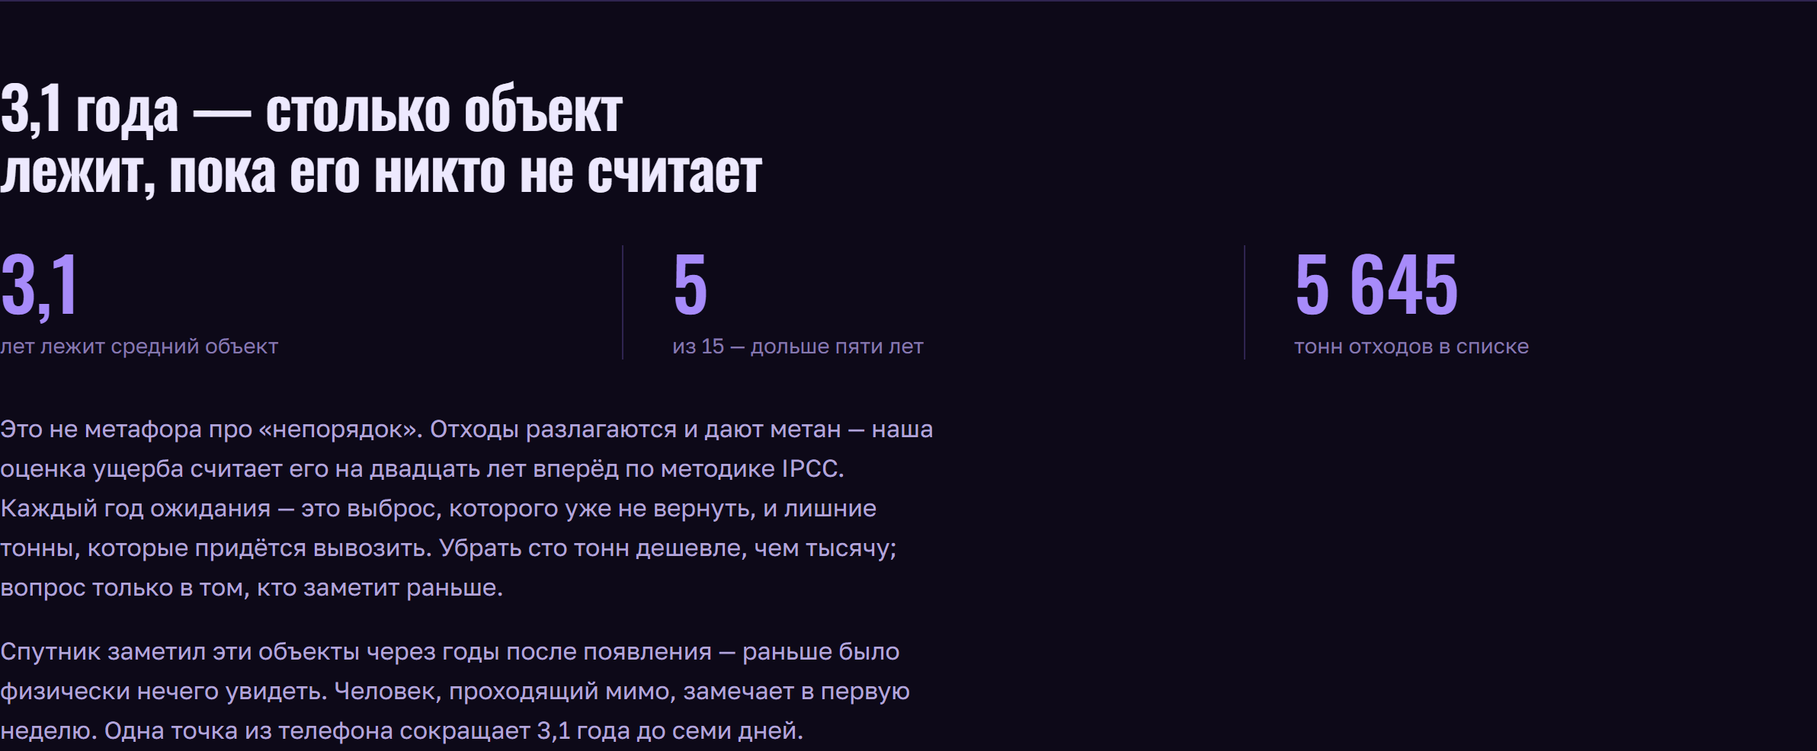
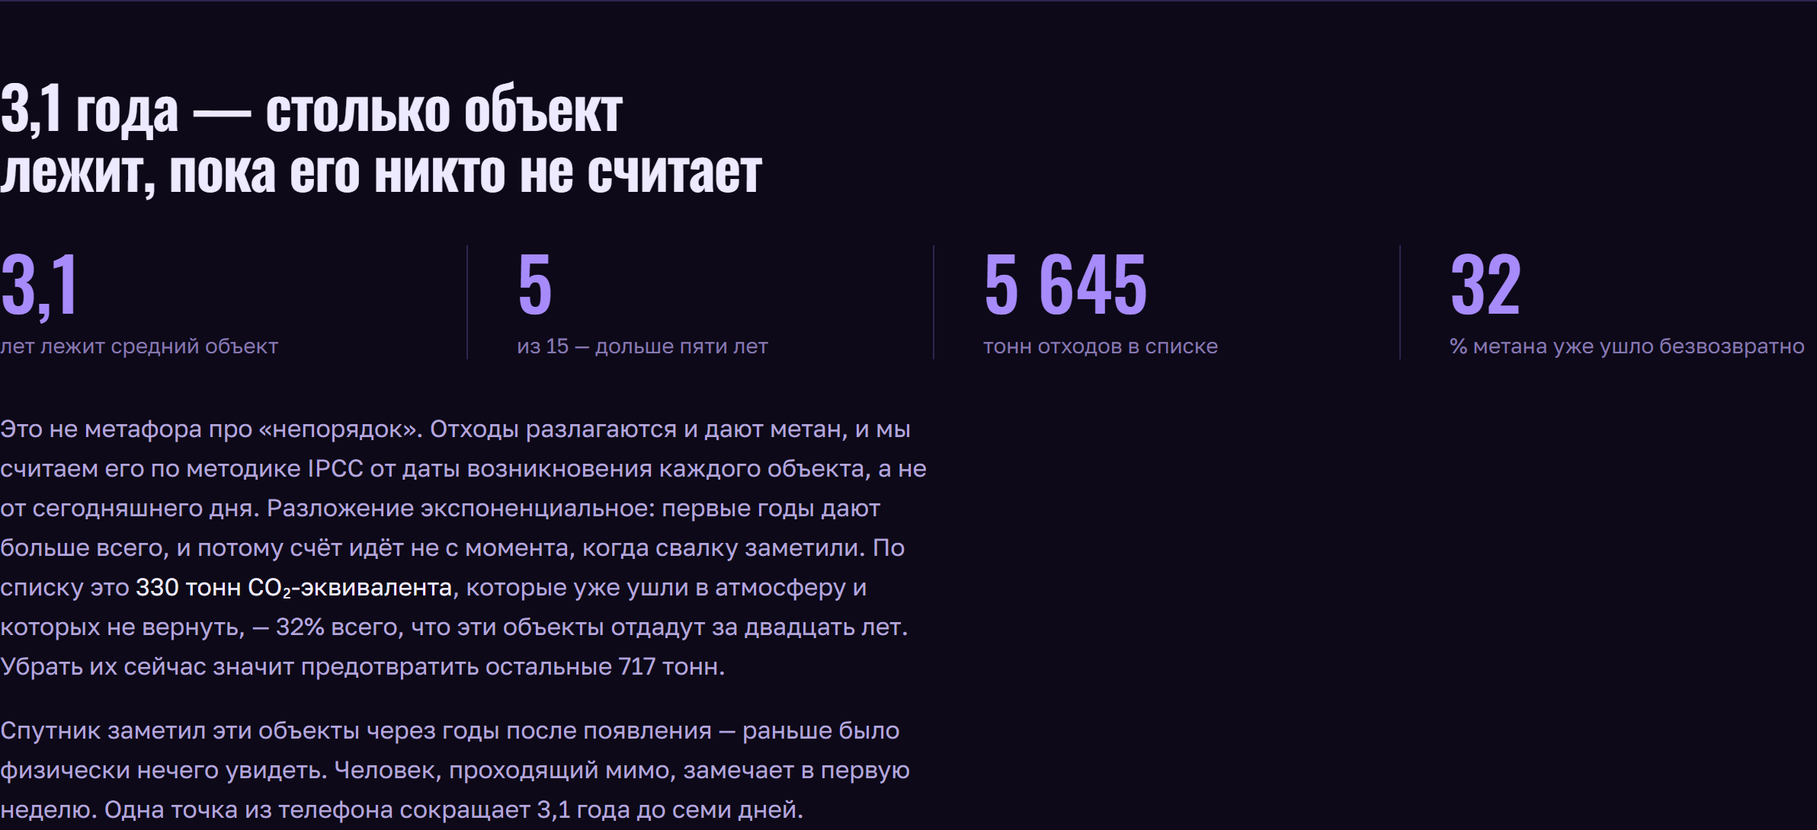
Возраст объекта не входил в расчёт метана, хотя весь рассказ на нём держится
Разложение по методике IPCC FOD идёт от момента захоронения. Возраст в
расчёт не передавался, и свалка 2019 года получала ту же оценку выброса,
что свалка 2024-го. При этом страница для жителей утверждала: «каждый год
ожидания — это выброс, которого уже не вернуть». Утверждение было верным
по физике и никак не посчитанным.

Теперь оценка возвращает три величины: полный горизонт, уже ушедшее и
предотвратимое. По опубликованному списку:

    всего за 20 лет      1 047 т CO₂-экв
    уже выброшено          330 т  (32%)
    ещё можно предотвратить 717 т

Разложение экспоненциальное, и отсюда следует вывод, ради которого всё и
считалось: свалка шести лет уже отдала 44% того, что могла. «Убирать
поздно» — не фигура речи.

Число вынесено на страницу для жителей, рядом с утверждением, которое оно
подкрепляет. Сетка плиток перестроена под четвёртую.

Пять проверок на модель, и две из них поймали мои же ошибки в тестах, а не
в коде: перцентили не складываются (медиана суммы не равна сумме медиан), и
сравнивать надо равные отрезки времени, иначе семь лет «побеждают» три при
любом замедлении.

672 проверки, узкие экраны чистые.

diff --git a/web-next/src/components/HowLong.tsx b/web-next/src/components/HowLong.tsx
@@ -51,11 +51,27 @@ export function HowLong({ features }: { features: Feature[] }) {
   const mass = real.reduce((s, f) => s + (num(f.properties.mass_t) ?? 0), 0);
   const old = ages.filter((a) => a > 5).length;
 
+  /* Метан, уже ушедший за годы лежания.
+     Раньше абзац ниже утверждал «каждый год ожидания — это выброс, которого
+     уже не вернуть», а посчитано это не было: модель разложения IPCC FOD
+     считала выброс от момента захоронения одинаково для свалки 2019 года и
+     2024-го. Теперь возраст входит в расчёт, и утверждение подкреплено
+     числом. */
+  const total = real.reduce((s, f) => s + (num(f.properties.co2e_t) ?? 0), 0);
+  const gone = real.reduce((s, f) => s + (num(f.properties.co2e_emitted_t) ?? 0), 0);
+  const goneShare = total > 0 ? Math.round((gone / total) * 100) : 0;
+
   const stats: [string, string][] = [
     ['лет лежит средний объект', median(ages).toFixed(1).replace('.', ',')],
     ['из ' + ages.length + ' — дольше пяти лет', String(old)],
     ['тонн отходов в списке', Math.round(mass).toLocaleString('ru-RU')],
   ];
+  if (gone > 0) {
+    stats.push([
+      `% метана уже ушло безвозвратно`,
+      String(goneShare),
+    ]);
+  }
 
   /* Заголовок берёт то же число, что и плитка под ним.
      Раньше в нём стояло «Шесть лет» словами, а плитка считалась из данных.
@@ -78,9 +94,20 @@ export function HowLong({ features }: { features: Feature[] }) {
         {said} — столько объект лежит, пока его никто не считает
       </h2>
 
-      <dl className="mt-8 grid gap-8 sm:grid-cols-3">
+      <dl className="mt-8 grid gap-8 sm:grid-cols-2 lg:grid-cols-4">
         {stats.map(([label, value], i) => (
-          <div key={label} className={i > 0 ? 'sm:border-l sm:border-grid sm:pl-8' : ''}>
+          <div
+            key={label}
+            className={
+              /* Разделитель — только между соседями в строке. При четырёх
+                 колонках на двухколоночной раскладке он иначе повисает
+                 слева у третьей плитки, в начале второй строки. */
+              i > 0 ? 'sm:border-l sm:border-grid sm:pl-8 [&:nth-child(odd)]:sm:border-l-0'
+                    + ' [&:nth-child(odd)]:sm:pl-0 lg:border-l lg:pl-8'
+                    + ' [&:nth-child(odd)]:lg:border-l [&:nth-child(odd)]:lg:pl-8'
+                : ''
+            }
+          >
             <dd className="tabular font-display text-[clamp(2rem,4vw,3rem)] leading-none text-violet-lit">
               {value}
             </dd>
@@ -90,11 +117,23 @@ export function HowLong({ features }: { features: Feature[] }) {
       </dl>
 
       <p className="mt-8 max-w-[62ch] leading-relaxed text-muted">
-        Это не метафора про «непорядок». Отходы разлагаются и дают метан —
-        наша оценка ущерба считает его на двадцать лет вперёд по методике
-        IPCC. Каждый год ожидания — это выброс, которого уже не вернуть, и
-        лишние тонны, которые придётся вывозить. Убрать сто тонн дешевле, чем
-        тысячу; вопрос только в том, кто заметит раньше.
+        Это не метафора про «непорядок». Отходы разлагаются и дают метан, и
+        мы считаем его по методике IPCC от даты возникновения каждого
+        объекта, а не от сегодняшнего дня. Разложение экспоненциальное:
+        первые годы дают больше всего, и потому счёт идёт не с момента, когда
+        свалку заметили.{' '}
+        {gone > 0 && (
+          <>
+            По списку это{' '}
+            <b className="font-normal text-line">
+              {Math.round(gone).toLocaleString('ru-RU')} тонн CO₂-эквивалента
+            </b>
+            , которые уже ушли в атмосферу и которых не вернуть, — {goneShare}%
+            всего, что эти объекты отдадут за двадцать лет. Убрать их сейчас
+            значит предотвратить остальные{' '}
+            {Math.round(total - gone).toLocaleString('ru-RU')} тонн.
+          </>
+        )}
       </p>
       <p className="mt-4 max-w-[62ch] leading-relaxed text-muted">
         Спутник заметил эти объекты через годы после появления — раньше было

diff --git a/tests/test_money.py b/tests/test_money.py
@@ -213,3 +213,83 @@ class TestSensitivity:
         result = sensitivity(5_000, econ, iterations=5_000, seed=25)
         assert abs(result["depth"]) > abs(result["carbon_price"])
         assert abs(result["density"]) > abs(result["carbon_price"])
+
+
+class TestAgeEntersTheMethaneModel:
+    """Возраст объекта обязан входить в расчёт метана.
+
+    Разложение по IPCC FOD идёт от момента захоронения. Без возраста
+    свалка 2019 года получала ту же оценку, что свалка 2024-го, — а весь
+    рассказ продукта держится на обратном: «каждый год ожидания — это
+    выброс, которого уже не вернуть». Утверждение было верным по физике и
+    никак не посчитанным.
+    """
+
+    def _economics(self):
+        from vantage.config import load_economics
+
+        return load_economics()
+
+    def test_older_object_has_released_more(self):
+        from vantage.money import assess
+
+        e = self._economics()
+        young = assess(3000.0, e, age_years=1.0)
+        old = assess(3000.0, e, age_years=10.0)
+        assert old.co2e_emitted_t.p50 > young.co2e_emitted_t.p50
+
+    def test_emitted_plus_preventable_equals_total(self):
+        """Уже ушедшее и предотвратимое в сумме дают полный горизонт.
+
+        Проверяется по среднему, а не по медиане: перцентили не
+        складываются. Медиана суммы не равна сумме медиан, если слагаемые
+        не связаны строго монотонно, — а здесь предотвратимое считается
+        как остаток и переупорядочивает выборку. Первая версия теста
+        сравнивала медианы и падала на разнице в 0,1%, что было ошибкой
+        теста, а не модели.
+        """
+        from vantage.money import assess
+
+        a = assess(3000.0, self._economics(), age_years=6.0)
+        total = a.co2e_emitted_t.mean + a.co2e_preventable_t.mean
+        assert abs(total - a.co2e_t.mean) < 1e-6 * max(1.0, a.co2e_t.mean)
+
+    def test_without_age_nothing_is_written_off(self):
+        """Возраст не передан — значит «свежая свалка», и ушедшего нет.
+
+        Молча приписать объекту возраст было бы хуже, чем не считать его:
+        число выглядело бы посчитанным.
+        """
+        from vantage.money import assess
+
+        a = assess(3000.0, self._economics())
+        assert a.co2e_emitted_t.p50 == 0.0
+        assert abs(a.co2e_preventable_t.mean - a.co2e_t.mean) < 1e-9
+
+    def test_decay_is_front_loaded(self):
+        """Первые годы дают больше, чем последние, — иначе это не FOD.
+
+        Из этого следует вывод, ради которого всё и считается: убирать
+        свалку поздно — не фигура речи.
+        """
+        from vantage.money import assess
+
+        # Отрезки обязаны быть равными. Первая версия сравнивала первые
+        # три года со следующими семью и падала: семь лет дают больше трёх
+        # даже при убывающей скорости. Это была ошибка теста, а не модели.
+        e = self._economics()
+        at3 = assess(3000.0, e, age_years=3.0).co2e_emitted_t.mean
+        at6 = assess(3000.0, e, age_years=6.0).co2e_emitted_t.mean
+        at9 = assess(3000.0, e, age_years=9.0).co2e_emitted_t.mean
+        first, second, third = at3, at6 - at3, at9 - at6
+        assert first > second > third, (
+            f"по трёхлетиям: {first:.0f}, {second:.0f}, {third:.0f} т — "
+            "разложение должно замедляться, а не ускоряться"
+        )
+
+    def test_age_never_makes_preventable_negative(self):
+        """Объект старше горизонта не должен давать отрицательный остаток."""
+        from vantage.money import assess
+
+        a = assess(3000.0, self._economics(), age_years=40.0)
+        assert a.co2e_preventable_t.p50 >= 0.0

diff --git a/src/vantage/money.py b/src/vantage/money.py
@@ -80,6 +80,12 @@ class DamageAssessment:
     recyclable_value_kzt: Percentiles
     ch4_t: Percentiles
     co2e_t: Percentiles
+    #: Сколько CO₂-экв уже ушло за годы, что объект лежит. Ноль, если
+    #: возраст не передан: тогда оценка отвечает на вопрос «сколько выбросит
+    #: свежая свалка такой массы», и это надо называть вслух.
+    co2e_emitted_t: Percentiles
+    #: Что ещё можно предотвратить уборкой сейчас.
+    co2e_preventable_t: Percentiles
     climate_cost_kzt: Percentiles
     net_damage_kzt: Percentiles
 
@@ -88,6 +94,11 @@ class DamageAssessment:
     penalty_article: str
 
     iterations: int = field(default=0)
+    #: Возраст объекта в годах на момент расчёта. Ноль означает «возраст
+    #: не передан», и тогда co2e_emitted_t тоже ноль — оценка отвечает на
+    #: вопрос «сколько выбросит свежая свалка такой массы».
+    age_years: float = 0.0
+
 
     def summary_lines(self) -> list[str]:
         """Готовые строки для панели интерфейса и для слайда."""
@@ -116,6 +127,7 @@ def assess(
     distance_to_landfill_km: float = 15.0,
     violator: ViolatorClass = "individual",
     article: str | None = None,
+    age_years: float = 0.0,
     iterations: int | None = None,
     seed: int | None = None,
 ) -> DamageAssessment:
@@ -177,6 +189,31 @@ def assess(
     carbon_price = economics.triangular("carbon_price_kzt_per_t_co2e").sample(rng, n)
     climate_cost = co2e_t * carbon_price
 
+    # Сколько метана уже ушло за годы, что объект лежит.
+    #
+    # Модель FOD считает выброс от момента захоронения, и без возраста
+    # свалка 2019 года и свалка 2024-го получали одинаковую оценку. При
+    # этом весь рассказ на сайте держится на обратном: «каждый год
+    # ожидания — это выброс, которого уже не вернуть». Утверждение было
+    # верным по физике и никак не посчитанным.
+    #
+    # Разложение экспоненциальное, и это важно для вывода: первые годы
+    # дают больше всего. Свалка, пролежавшая пять лет, уже отдала заметную
+    # долю того, что могла, — и убирать её поздно не в переносном смысле.
+    emitted_ch4 = ch4_model.cumulative_ch4(
+        mass * organic_share,
+        doc_fraction=doc,
+        doc_f=float(methane_cfg["doc_f"]),
+        mcf=float(methane_cfg["methane_correction_factor"]),
+        f_ch4=float(methane_cfg["f_ch4_in_gas"]),
+        oxidation=float(methane_cfg["oxidation_factor"]),
+        k=k,
+        years=max(0.0, float(age_years)),
+    ) if age_years and age_years > 0 else ch4_t * 0.0
+    co2e_emitted_t = ch4_model.to_co2e(emitted_ch4, float(methane_cfg["gwp_ch4_20yr"]))
+    # Предотвратимое — то, что ещё не ушло: остаток от полного горизонта.
+    co2e_preventable_t = np.maximum(co2e_t - co2e_emitted_t, 0.0)
+
     # --- 5. Чистый ущерб -------------------------------------------------- #
     # Извлекаемое сырьё вычитается: оно частично компенсирует уборку.
     # Ущерб может оказаться отрицательным — это не ошибка, а важный вывод:
@@ -198,6 +235,9 @@ def assess(
         recyclable_value_kzt=Percentiles.of(recyclable_value, percentiles),
         ch4_t=Percentiles.of(ch4_t, percentiles),
         co2e_t=Percentiles.of(co2e_t, percentiles),
+        co2e_emitted_t=Percentiles.of(co2e_emitted_t, percentiles),
+        co2e_preventable_t=Percentiles.of(co2e_preventable_t, percentiles),
+        age_years=float(age_years),
         climate_cost_kzt=Percentiles.of(climate_cost, percentiles),
         net_damage_kzt=Percentiles.of(net_damage, percentiles),
         penalty_mrp=penalty_mrp,

diff --git a/src/vantage/pipeline.py b/src/vantage/pipeline.py
@@ -380,14 +380,31 @@ class Pipeline:
         if candidates.empty:
             return candidates
 
+        import pandas as pd
+
         result = candidates.copy()
+        # Возраст объекта входит в расчёт метана.
+        #
+        # Разложение по IPCC FOD идёт от момента захоронения, и без возраста
+        # свалка 2019 года получала ту же оценку, что свалка 2024-го. Весь
+        # рассказ продукта при этом держится на обратном: «каждый год
+        # ожидания — это выброс, которого уже не вернуть». Утверждение было
+        # верным по физике и никак не посчитанным.
+        today = pd.Timestamp.today()
+        dates = pd.to_datetime(result.get("break_date"), errors="coerce")             if "break_date" in result.columns else None
+
         rows = []
-        for _, row in result.iterrows():
+        for i, (_, row) in enumerate(result.iterrows()):
             area = float(row.get("area_m2", 0.0))
             if area <= 0:
                 rows.append({})
                 continue
-            assessment = assess(area, self.economics)
+            age = 0.0
+            if dates is not None:
+                when = dates.iat[i]
+                if pd.notna(when):
+                    age = max(0.0, (today - when).days / 365.25)
+            assessment = assess(area, self.economics, age_years=age)
             rows.append(
                 {
                     "damage_p10": assessment.net_damage_kzt.p10,
@@ -395,11 +412,15 @@ class Pipeline:
                     "damage_p90": assessment.net_damage_kzt.p90,
                     "mass_t": assessment.mass_t.p50,
                     "co2e_t": assessment.co2e_t.p50,
+                    "co2e_emitted_t": assessment.co2e_emitted_t.p50,
+                    "co2e_preventable_t": assessment.co2e_preventable_t.p50,
+                    "age_years": round(age, 1),
                     "penalty_kzt": assessment.penalty_kzt,
                     "penalty_article": assessment.penalty_article,
                 }
             )
         for key in ("damage_p10", "damage_p50", "damage_p90", "mass_t", "co2e_t",
+                    "co2e_emitted_t", "co2e_preventable_t", "age_years",
                     "penalty_kzt", "penalty_article"):
             result[key] = [row.get(key) for row in rows]
         return result
